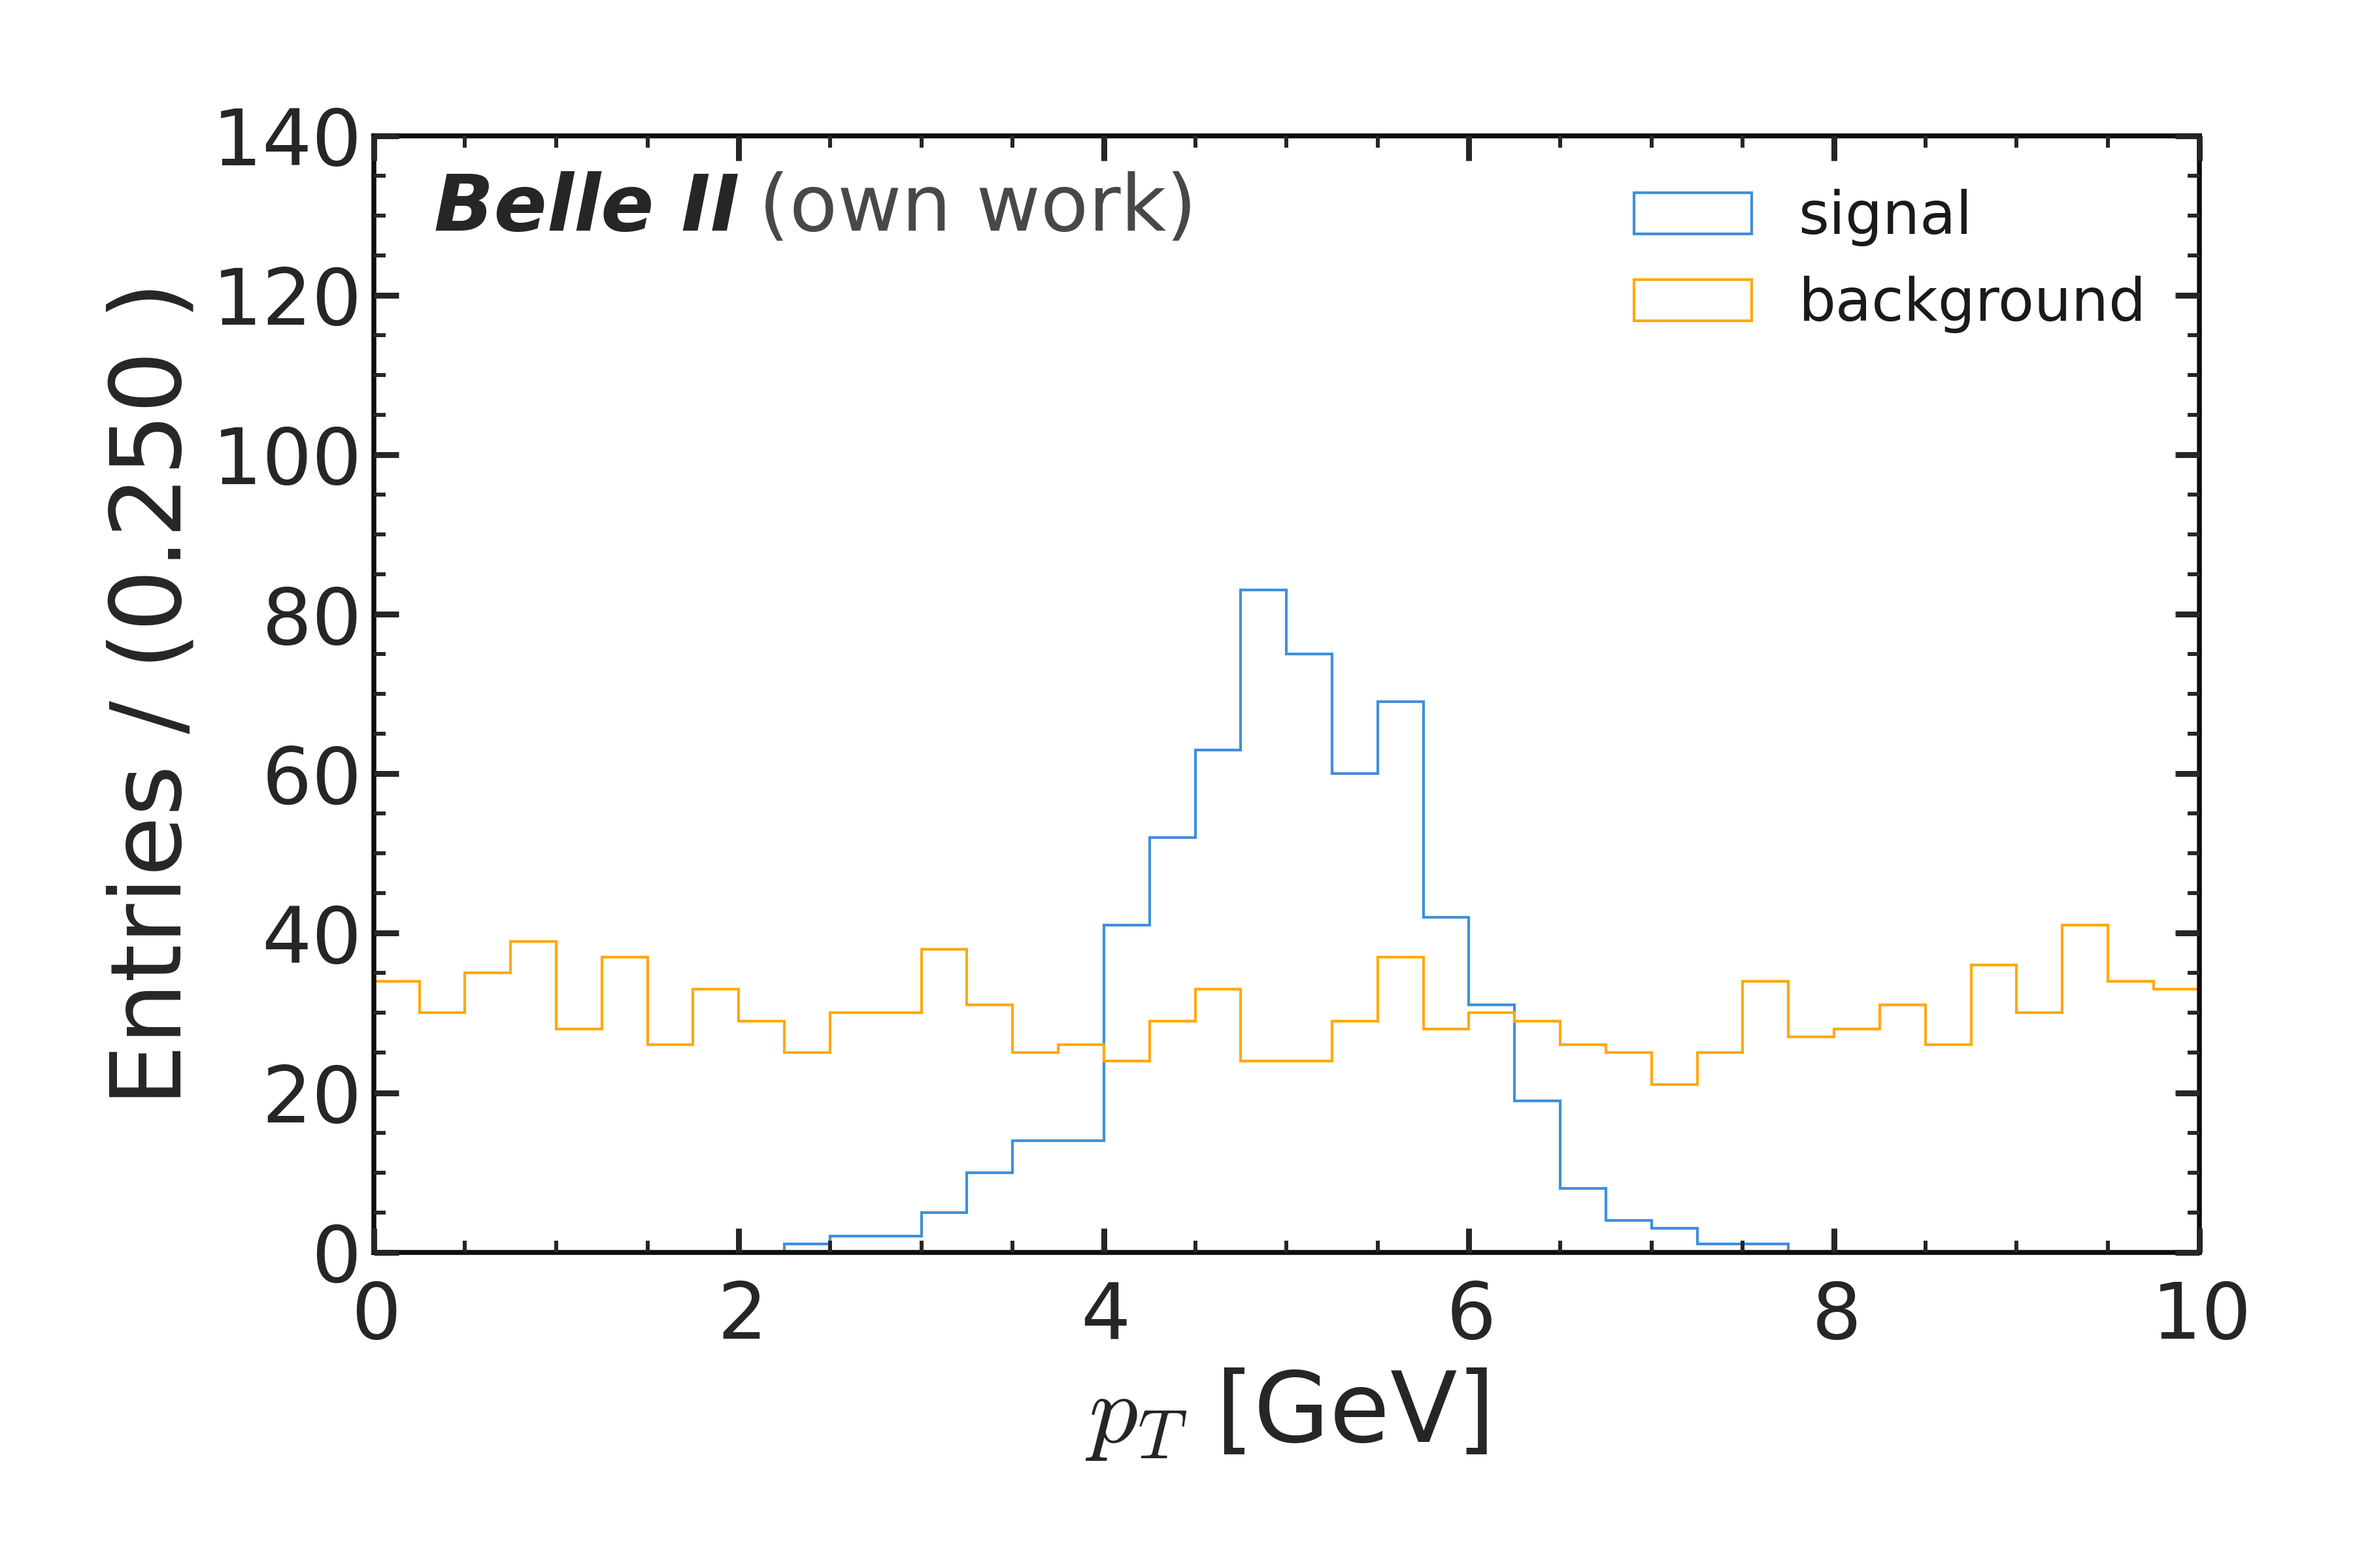
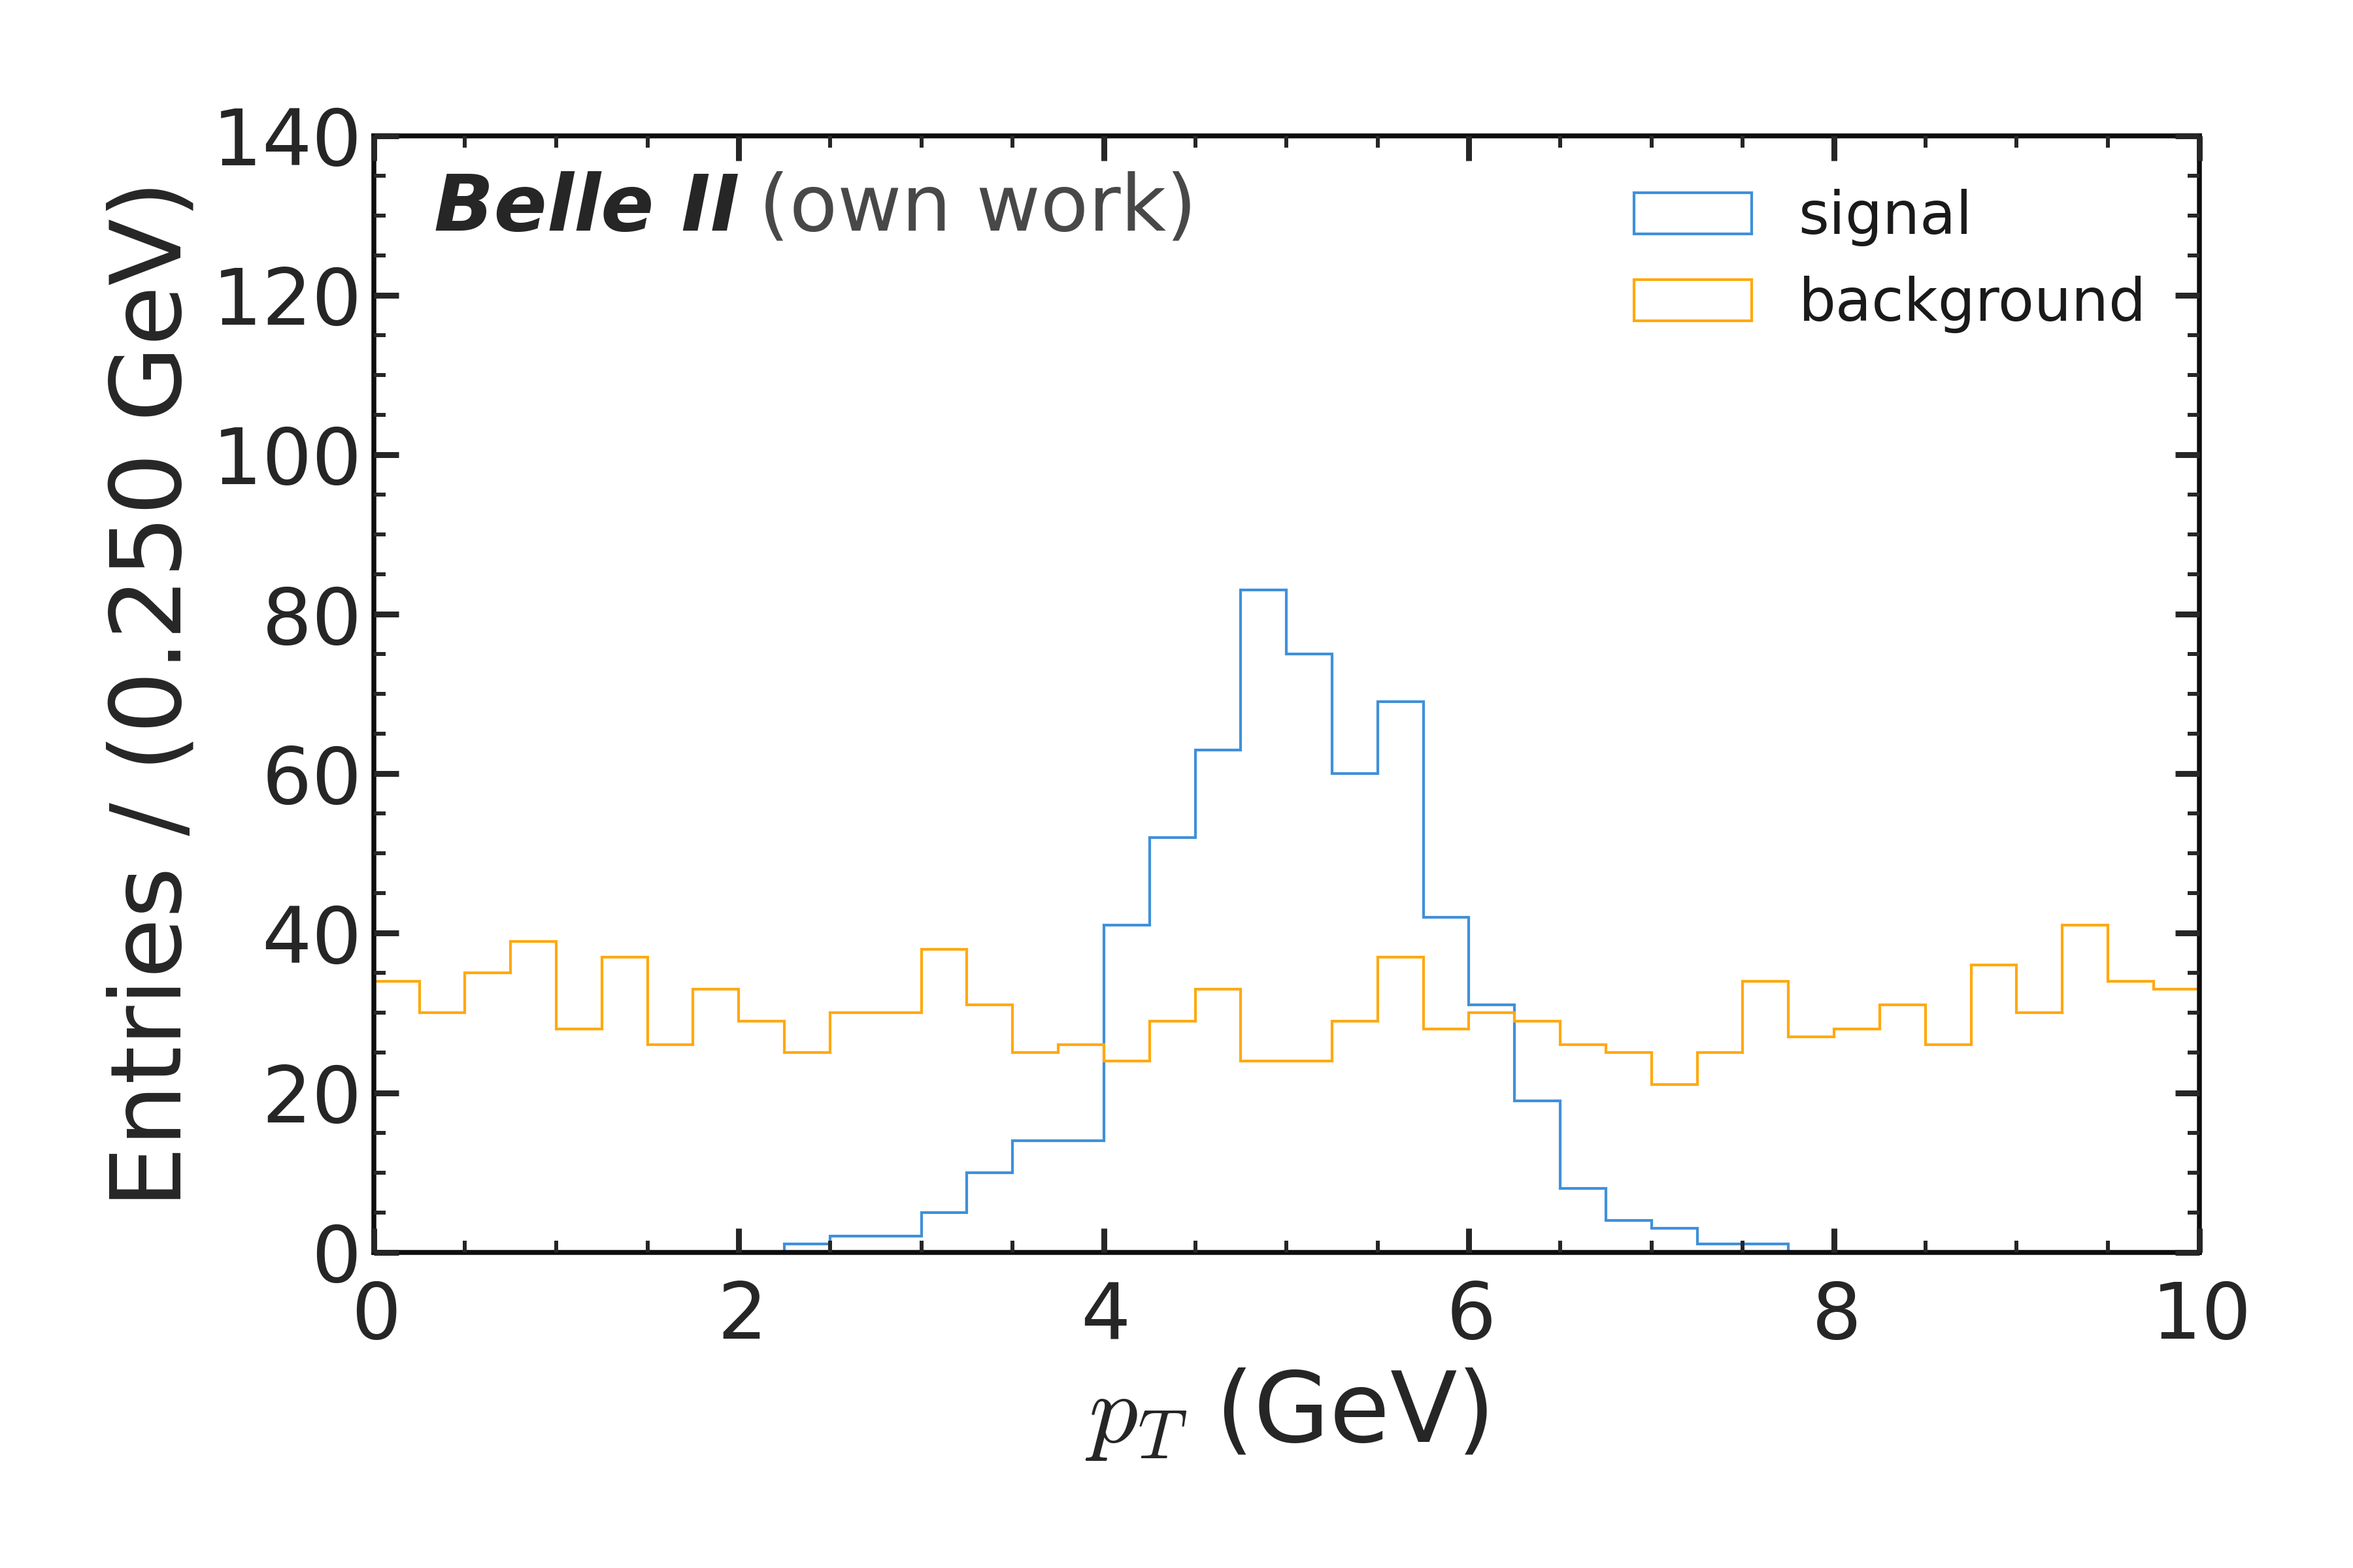
Fix duplicate legend entry and use new unit param in workflow_demo.py
- add_pull draws its own copy of the model line on the main panel (to
  pick up `color`); passing label="Model" to both it and add_function
  duplicated the legend entry -- drop the label from add_pull's call.
- Use plot_histogram's new `unit` parameter instead of hand-embedding
  "[GeV]" into step 1's xlabel, so both axes render units consistently
  with the rest of the library instead of a one-off manual string.

Changed region(s): [[0.0311, 0.125, 0.0933, 0.7812], [0.6222, 0.9062, 0.6533, 0.9375], [0.4978, 0.9062, 0.5289, 0.9375]]

diff --git a/examples/workflow_demo.py b/examples/workflow_demo.py
@@ -42,7 +42,8 @@ def step1_convenience(data: dict[str, np.ndarray]) -> None:
     plot_histogram(
         entries=data,
         bins=(X_MIN, X_MAX, 41),
-        xlabel="$p_T$ [GeV]",
+        xlabel="$p_T$",
+        unit="GeV",
         stacked=False,
         save=os.path.join(OUTPUT_DIR, "01-histogram.png"),
     )
@@ -92,8 +93,11 @@ def _build_stacked_pull_plotter(data: dict[str, np.ndarray]) -> HistogramPlotter
     plotter.legend_ncol = 5
     plotter.legend_loc = "upper right"
 
+    # add_pull draws its own copy of this line on the main panel (to pick up
+    # `color` for the pull-panel markers); omit its label so the legend
+    # doesn't get "Model" twice.
     plotter.add_function(_model, binwidth=True, label="Model", color=PetroffColors.purple, lw=2)
-    plotter.add_pull(_model, binwidth=True, color=PetroffColors.purple, label="Model", lw=2, max_sigma=5.0)
+    plotter.add_pull(_model, binwidth=True, color=PetroffColors.purple, lw=2, max_sigma=5.0)
     return plotter
 
 
